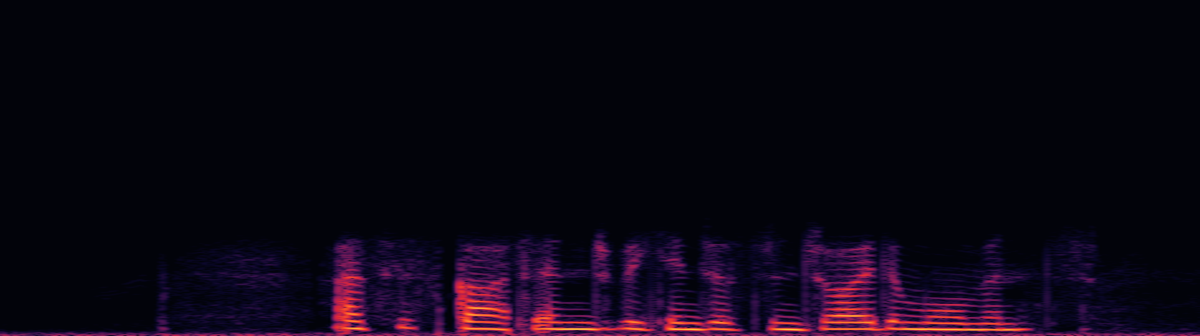
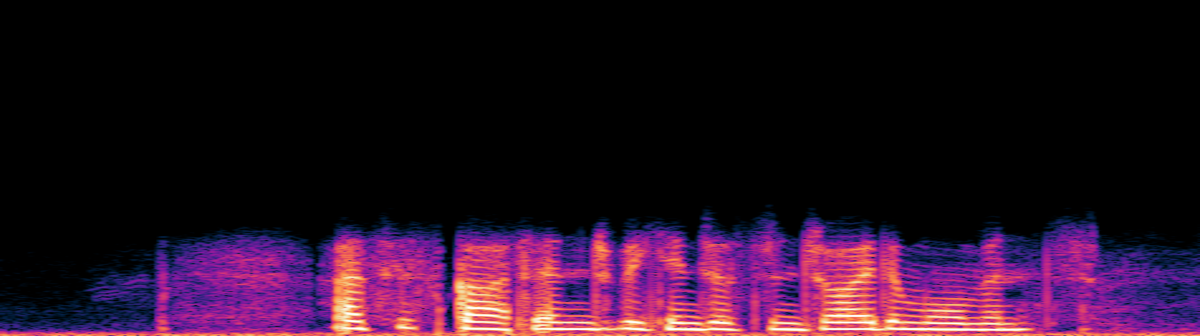
Match AudioLens Rose spectrogram palette

Changed region(s): [[0.0, 0.625, 1.0, 1.0]]

diff --git a/hwb-plus/app.js b/hwb-plus/app.js
@@ -66,7 +66,7 @@ filterButtons.forEach((button) => {
   });
 });
 
-fetch('comparisons.json?v=hwb-audition-red-spectrum-minus1db-20260921')
+fetch('comparisons.json?v=hwb-audiolens-rose-spectrum-minus1db-20260921')
   .then((response) => {
     if (!response.ok) throw new Error('Unable to load audio comparisons.');
     return response.json();

diff --git a/tools/build_hwb_comparison.py b/tools/build_hwb_comparison.py
@@ -14,9 +14,11 @@ DEMO_ROOT = SITE_ROOT / "hwb-plus"
 AUDIO_ROOT = DEMO_ROOT / "audio"
 SPECTROGRAM_ROOT = DEMO_ROOT / "spectrograms"
 MANIFEST_PATH = DEMO_ROOT / "comparisons.json"
-ASSET_VERSION = "hwb-audition-red-spectrum-minus1db-20260921"
+ASSET_VERSION = "hwb-audiolens-rose-spectrum-minus1db-20260921"
 EXCLUDED_IDENTIFIERS = {"p360_126_mic2"}
 TARGET_PEAK = 10 ** (-1.0 / 20.0)
+SPECTROGRAM_GAIN_DB = 20.0
+SPECTROGRAM_RANGE_DB = 80.0
 
 
 def read_wav(path: Path) -> tuple[np.ndarray, int]:
@@ -72,14 +74,15 @@ def write_mono_wav(samples: np.ndarray, sample_rate: int, path: Path) -> None:
 def colorize(values: np.ndarray) -> np.ndarray:
     stops = np.array(
         [
-            [0.00, 2, 3, 10],
-            [0.18, 10, 7, 40],
-            [0.34, 61, 18, 80],
-            [0.50, 153, 30, 91],
-            [0.62, 222, 38, 57],
-            [0.74, 251, 96, 40],
-            [0.86, 255, 193, 62],
-            [1.00, 255, 240, 148],
+            [0.000, 0, 0, 0],
+            [0.125, 0, 30, 60],
+            [0.250, 56, 36, 136],
+            [0.375, 132, 24, 160],
+            [0.500, 196, 40, 132],
+            [0.625, 236, 88, 88],
+            [0.750, 252, 148, 72],
+            [0.875, 240, 212, 148],
+            [1.000, 255, 252, 250],
         ],
         dtype=np.float32,
     )
@@ -97,9 +100,9 @@ def save_spectrogram(samples: np.ndarray, sample_rate: int, path: Path) -> None:
     window = np.hanning(frame_length)
     spectrum = np.abs(np.fft.rfft(frames * window, axis=1)) / (window.sum() / 2.0)
     db = 20.0 * np.log10(np.maximum(spectrum, 1e-7))
-    db = np.clip(db, -80.0, 0.0)
+    display_values = np.clip((db + SPECTROGRAM_GAIN_DB + SPECTROGRAM_RANGE_DB) / SPECTROGRAM_RANGE_DB, 0.0, 1.0)
     maximum_bin = min(db.shape[1], int(11000 / sample_rate * frame_length) + 1)
-    image = Image.fromarray(colorize(((db + 80.0) / 80.0)[:, :maximum_bin].T[::-1, :]), mode="RGB")
+    image = Image.fromarray(colorize(display_values[:, :maximum_bin].T[::-1, :]), mode="RGB")
     path.parent.mkdir(parents=True, exist_ok=True)
     image.resize((1200, 336), Image.Resampling.BICUBIC).save(path, format="PNG", optimize=True)
 
